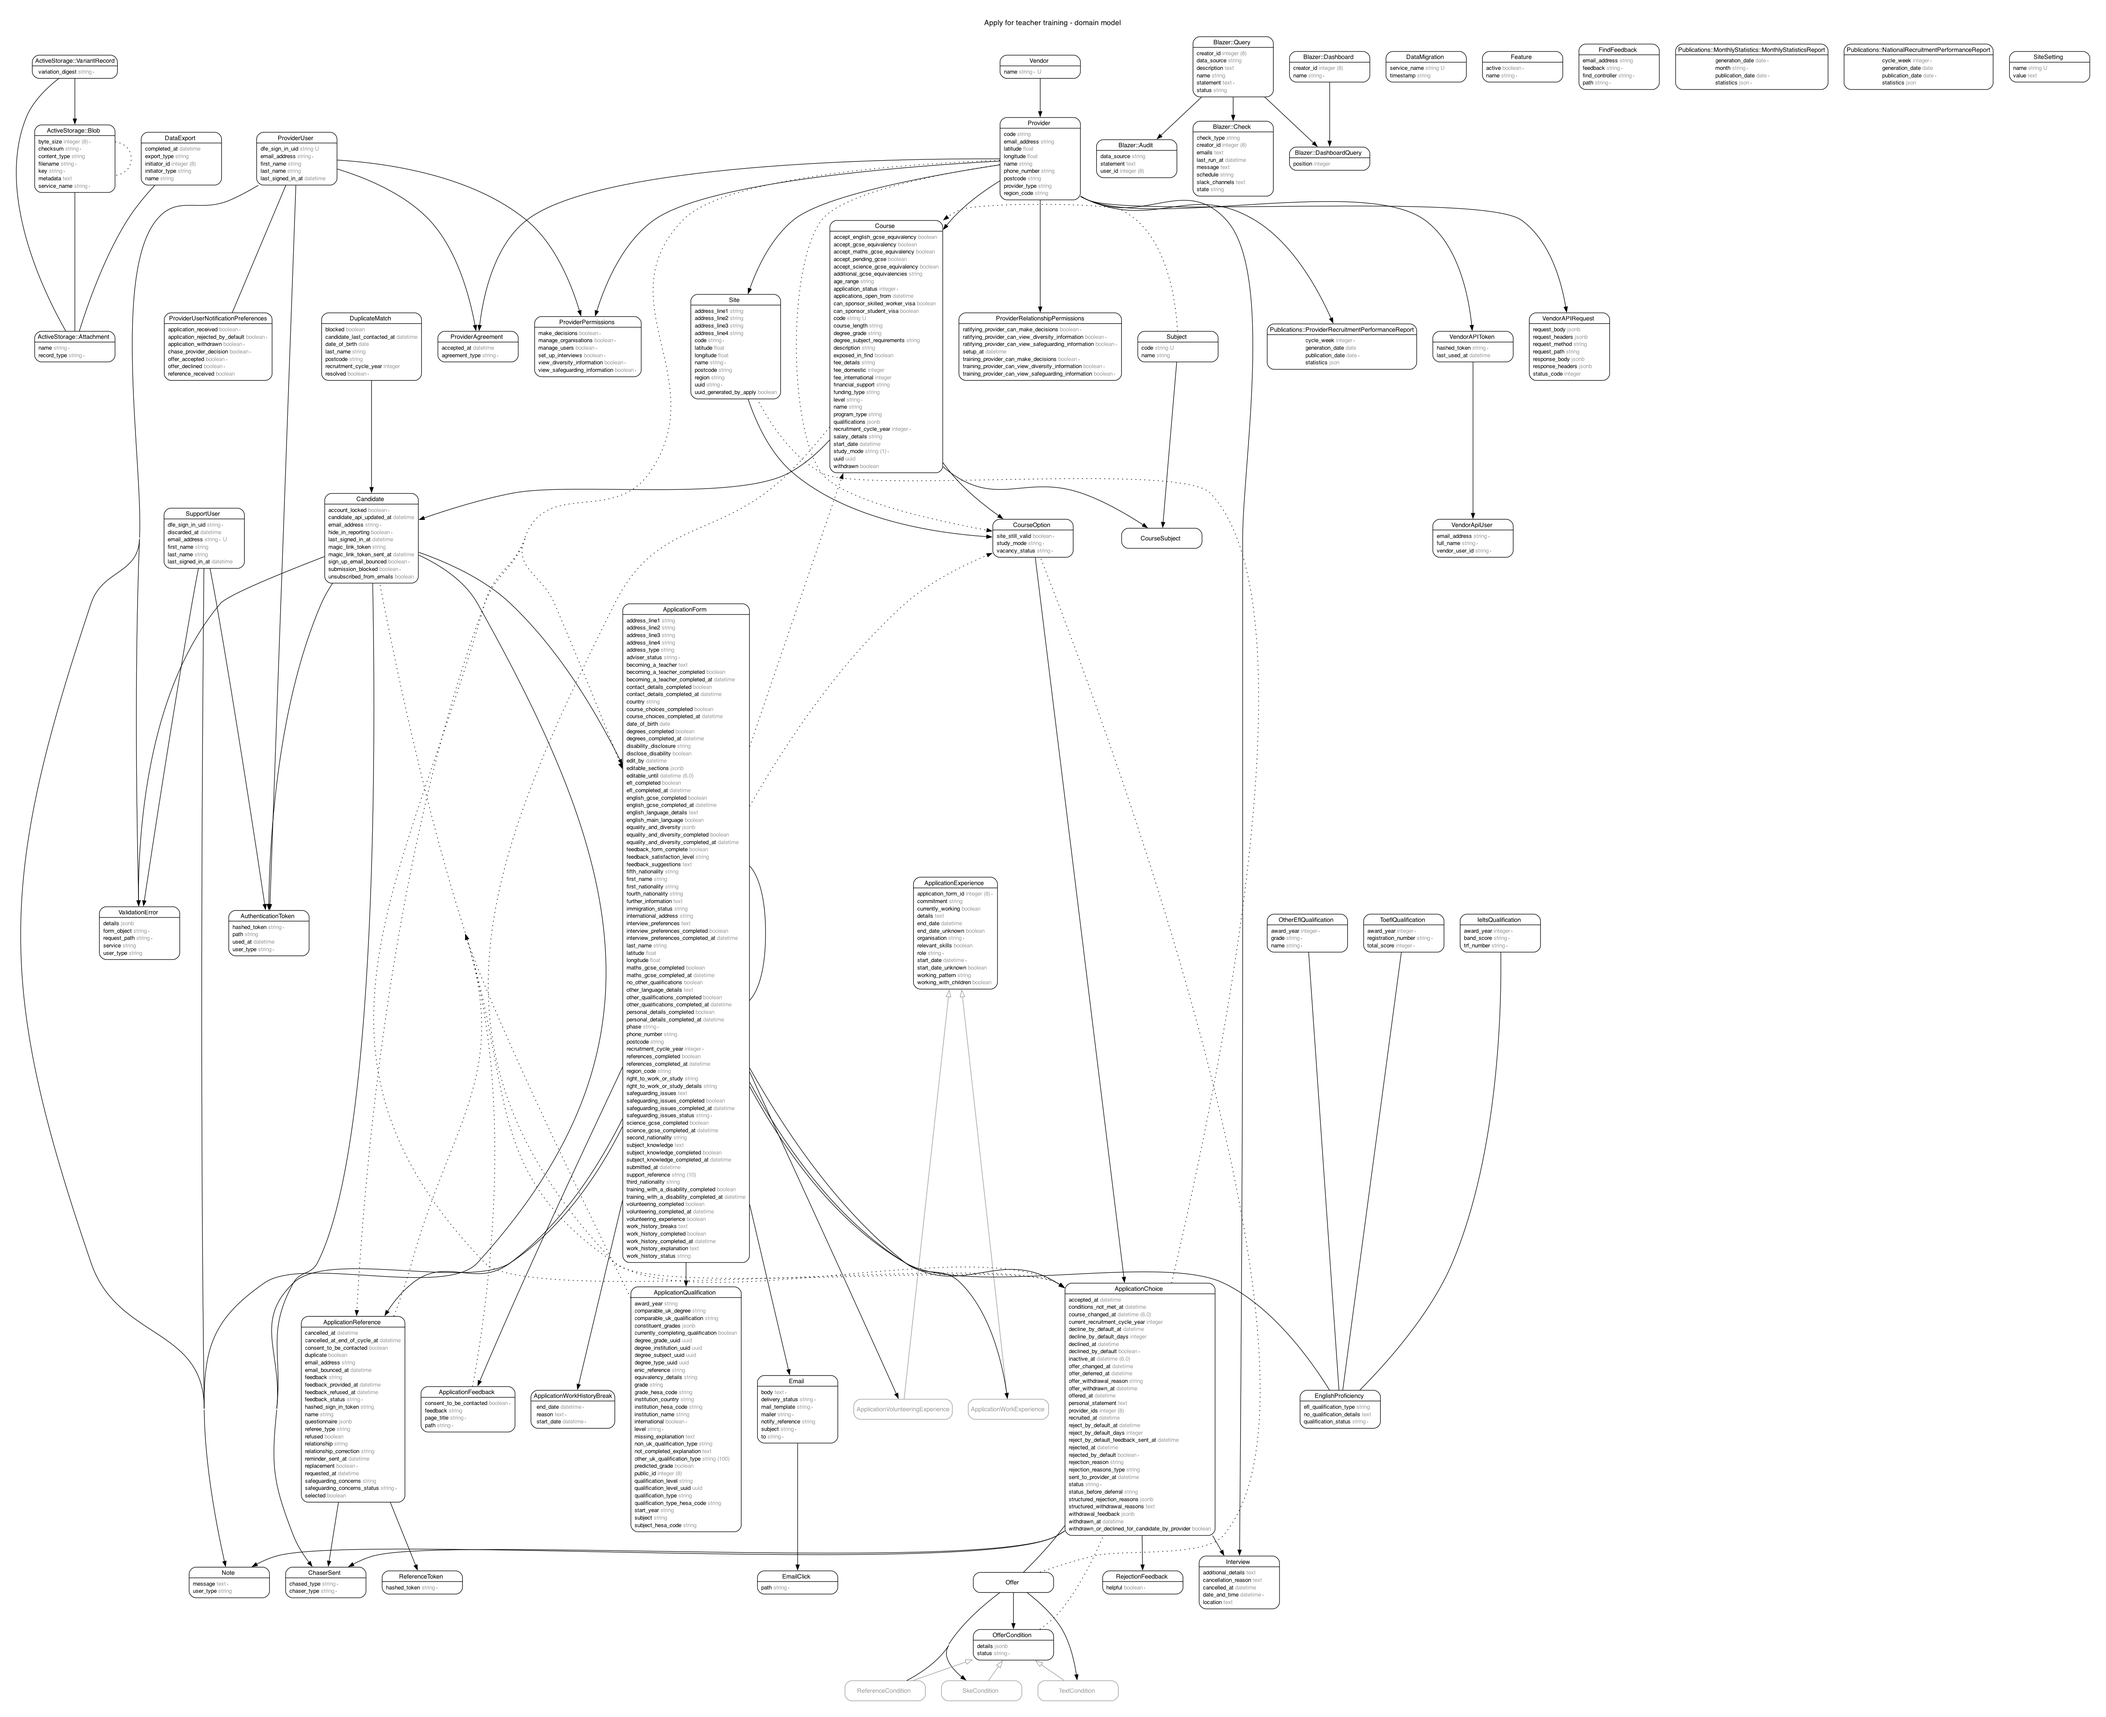
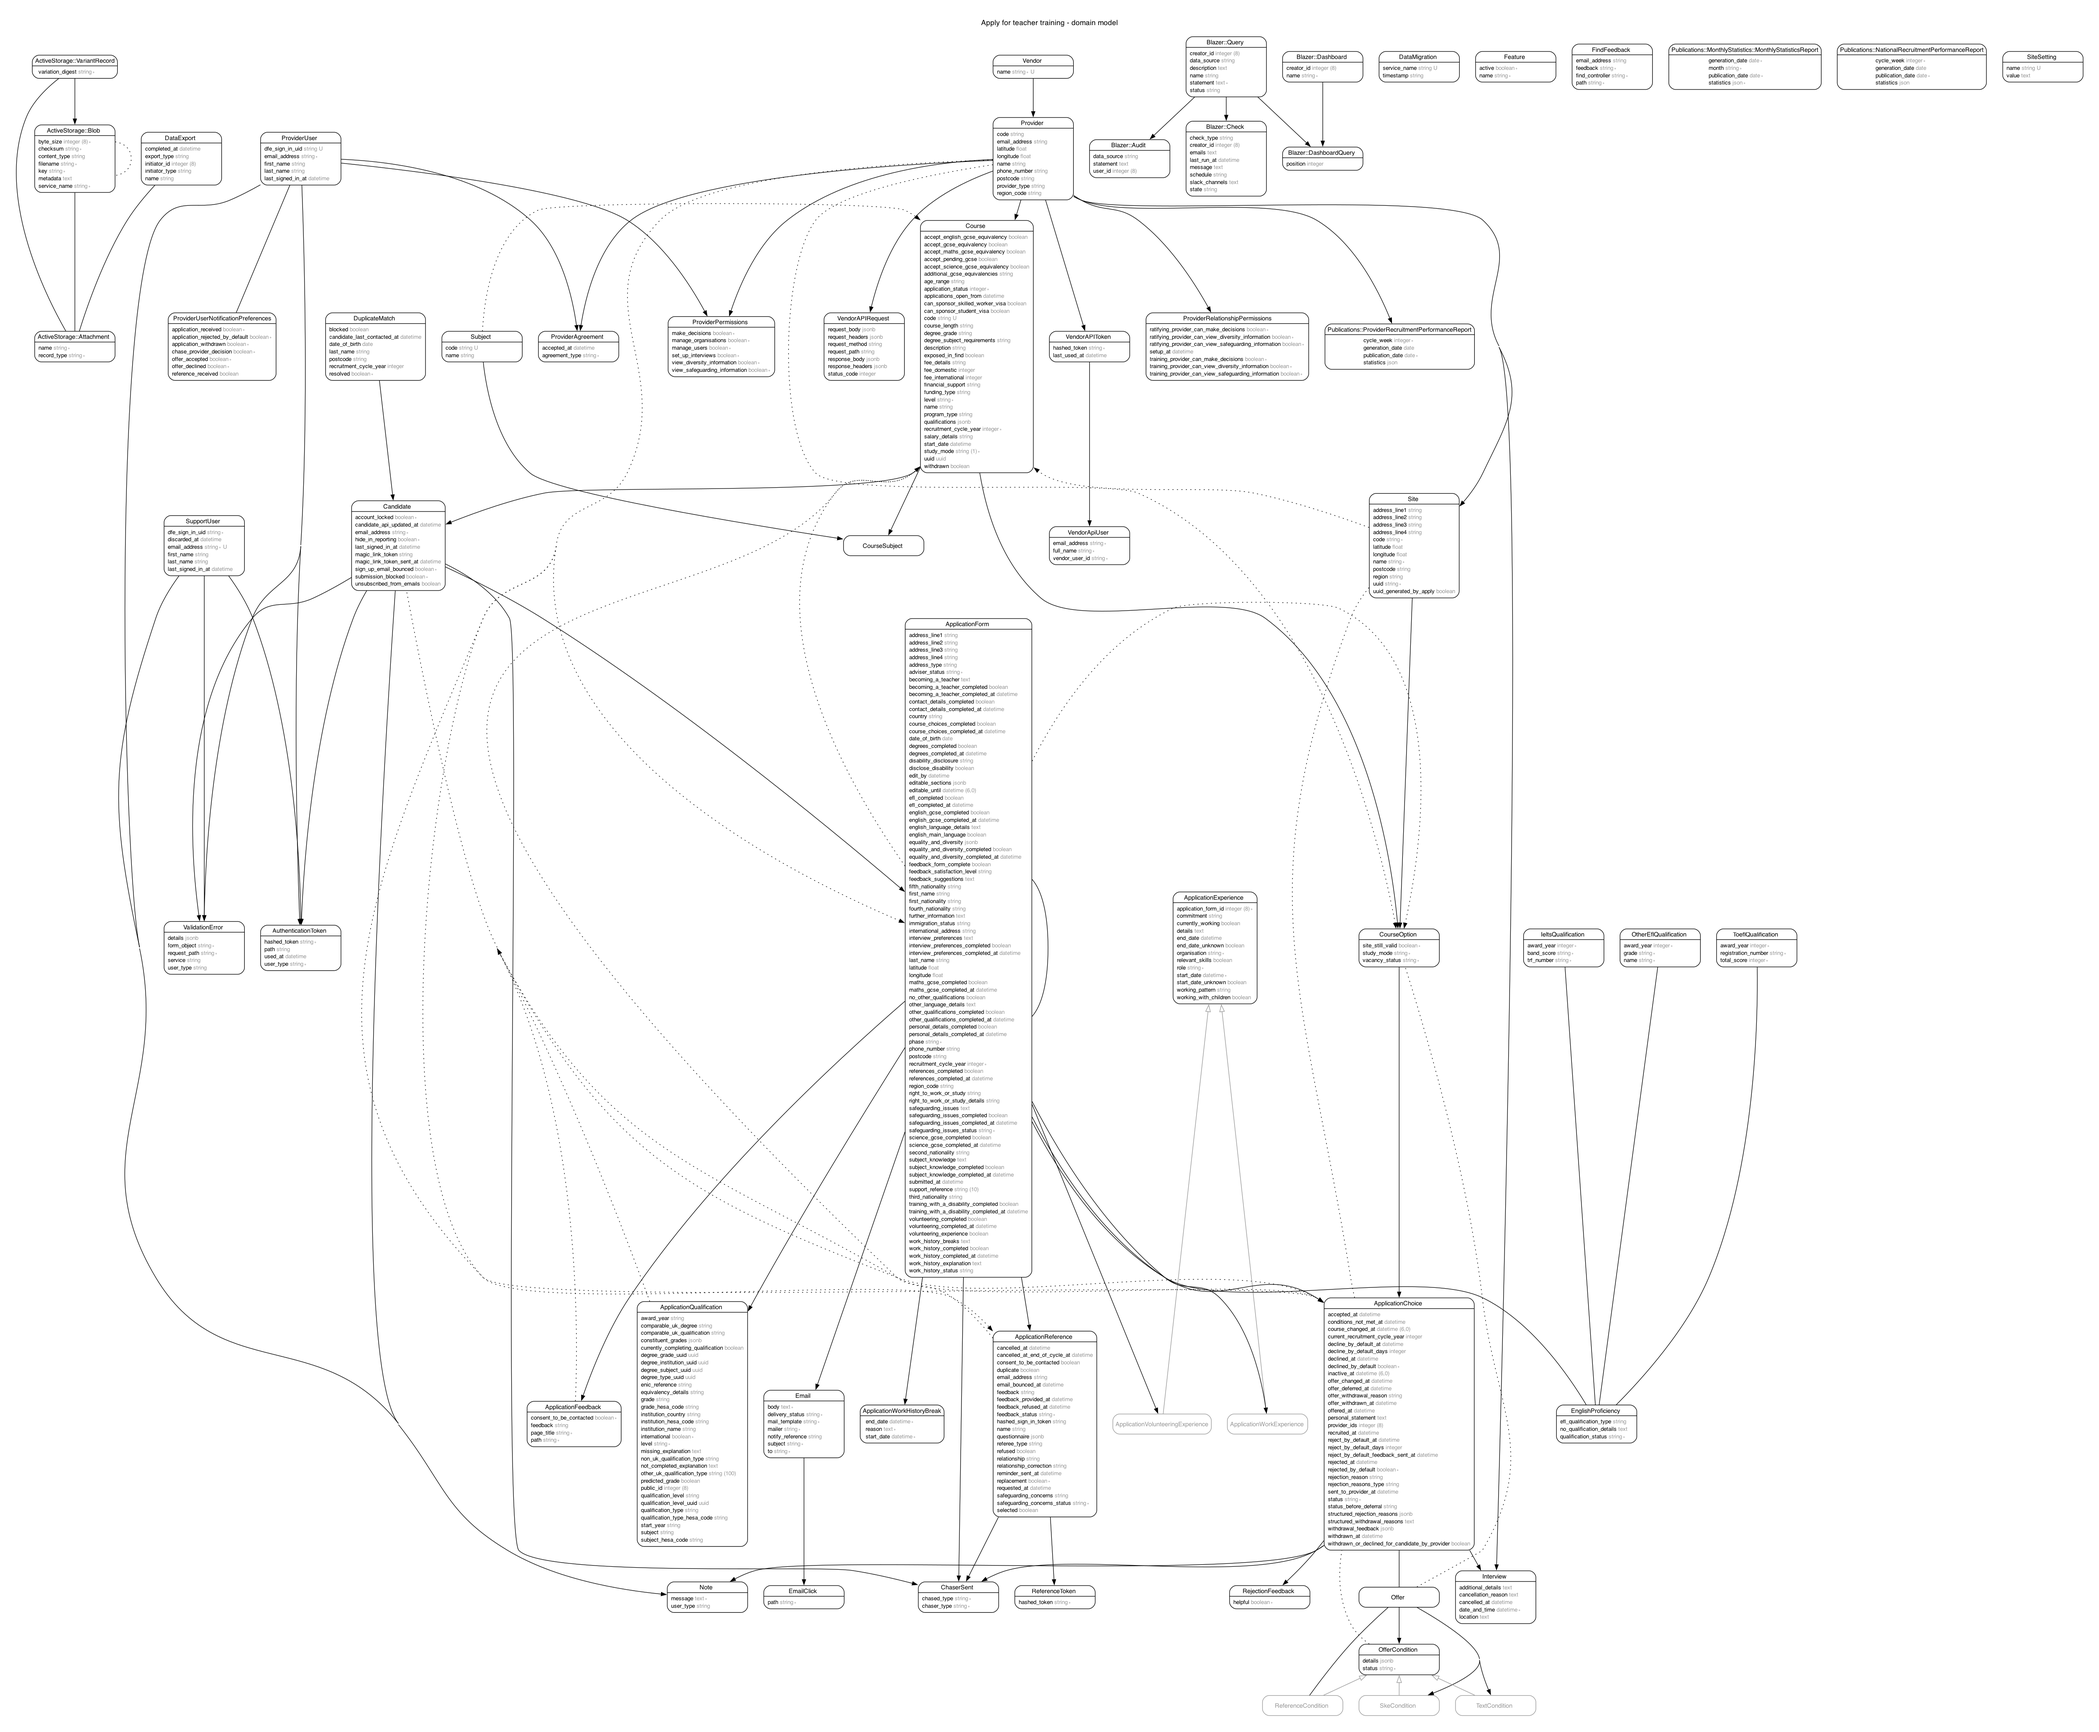
Add enic_reason enum to ApplicationQualification model

diff --git a/db/schema.rb b/db/schema.rb
@@ -10,7 +10,7 @@
 #
 # It's strongly recommended that you check this file into your version control system.
 
-ActiveRecord::Schema[7.1].define(version: 2024_06_25_105759) do
+ActiveRecord::Schema[7.1].define(version: 2024_07_24_104015) do
   create_sequence "qualifications_public_id_seq", start: 120000
 
   # These are extensions that must be enabled in order to support this database
@@ -254,6 +254,7 @@ ActiveRecord::Schema[7.1].define(version: 2024_06_25_105759) do
     t.uuid "degree_grade_uuid"
     t.string "qualification_level"
     t.uuid "qualification_level_uuid"
+    t.string "enic_reason"
     t.index ["application_form_id"], name: "index_application_qualifications_on_application_form_id"
     t.index ["grade_hesa_code"], name: "qualifications_by_grade_hesa_code"
     t.index ["institution_hesa_code"], name: "qualifications_by_institution_hesa_code"

diff --git a/db/migrate/20240724104015_add_enic_reason_to_application_qualifications.rb b/db/migrate/20240724104015_add_enic_reason_to_application_qualifications.rb
@@ -1,0 +1,5 @@
+class AddEnicReasonToApplicationQualifications < ActiveRecord::Migration[7.1]
+  def change
+    add_column :application_qualifications, :enic_reason, :string
+  end
+end
